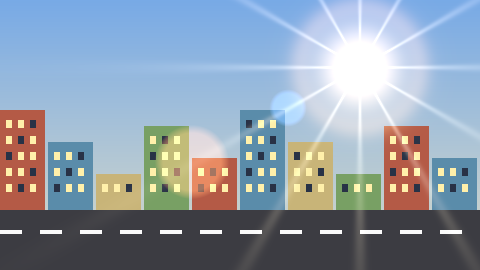
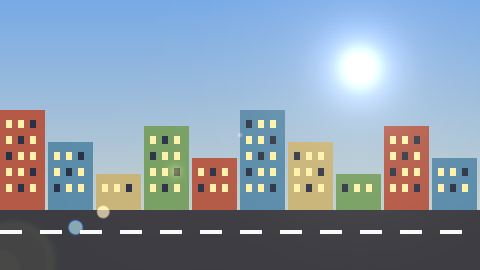
B-865: Lens Flare's lenses as After Effects draws them (D-985)
The three lenses' parts now follow tools/lens_flare_reference.py as D-985
re-measured them from After Effects' own output in three tutorial stills:
soft blooms, faint ghosts and rings, no rays. The D-426 and D-545 tables
re-ran on the new fixtures (146 of 146, 463 of 463). Before/after/tutorial
sheet in verification/B-865 pictures/, playtest in verification/B-865_playtest.md.

Claude-Session: https://claude.ai/code/session_017v6siGuTE9FEsaYfu4Tihy

diff --git a/src/layer_fx.rs b/src/layer_fx.rs
@@ -3183,43 +3183,64 @@ fn thread(e: f64, half: f64, texture: f64) -> (f64, f64, f64, f64) {
 /// disc (a ghost), 3 a star of n rays; t its place on the line from the flare (0) through the
 /// layer's middle (1); r its size and w its edge (a star's: its rays' sharpness), as shares of the
 /// drawing's diagonal; its colour in linear light. The same numbers are in
-/// tools/lens_flare_reference.py.
+/// tools/lens_flare_reference.py; D-985 measured them again from After Effects' own output.
 pub(crate) const FLARE_LENSES: [(&str, &[[f64; 8]]); 3] = [
     (
         "zoom",
         &[
-            [0.0, 0.0, 0.012, 0.0, 0.0, 2.0, 2.0, 2.0],
-            [0.0, 0.0, 0.06, 0.0, 0.0, 1.0, 0.75, 0.45],
-            [1.0, 0.0, 0.2, 0.012, 0.0, 0.12, 0.18, 0.3],
-            [3.0, 0.0, 0.1, 40.0, 6.0, 0.5, 0.45, 0.4],
-            [2.0, 0.45, 0.02, 0.006, 0.0, 0.1, 0.18, 0.35],
-            [2.0, 0.7, 0.045, 0.01, 0.0, 0.12, 0.3, 0.12],
-            [2.0, 1.2, 0.03, 0.008, 0.0, 0.35, 0.2, 0.08],
-            [2.0, 1.5, 0.08, 0.02, 0.0, 0.08, 0.08, 0.25],
-            [2.0, 1.8, 0.015, 0.005, 0.0, 0.4, 0.1, 0.1],
-            [1.0, 2.0, 0.1, 0.008, 0.0, 0.1, 0.25, 0.15],
+            [0.0, 0.0, 0.006, 0.0, 0.0, 0.6, 0.6, 0.6],
+            [0.0, 0.0, 0.0266, 0.0, 0.0, 0.6, 0.75, 0.75],
+            [0.0, 0.0, 0.069, 0.0, 0.0, 0.48, 0.12, 0.1],
+            [0.0, 0.0, 0.22, 0.0, 0.0, 0.035, 0.02, 0.016],
+            [1.0, 0.0, 0.078, 0.0058, 0.0, 0.13, 0.012, 0.004],
+            [2.0, -0.3, 0.035, 0.006, 0.0, 0.06, 0.04, 0.03],
+            [2.0, 0.62, 0.03, 0.006, 0.0, 0.01, 0.015, 0.035],
+            [2.0, 0.81, 0.018, 0.004, 0.0, 0.06, 0.023, 0.01],
+            [2.0, 1.0, 0.004, 0.003, 0.0, 0.38, 0.27, 0.26],
+            [2.0, 1.28, 0.0036, 0.003, 0.0, 0.1, 0.25, 0.18],
+            [2.0, 1.39, 0.032, 0.004, 0.0, 0.07, 0.025, 0.0],
+            [2.0, 1.47, 0.063, 0.004, 0.0, 0.042, 0.027, 0.0],
+            [2.0, 1.66, 0.027, 0.004, 0.0, 0.005, 0.035, 0.15],
+            [2.0, 2.02, 0.09, 0.03, 0.0, 0.004, 0.005, 0.001],
+            [1.0, 2.02, 0.088, 0.006, 0.0, 0.006, 0.007, 0.001],
+            [1.0, 2.38, 0.169, 0.003, 0.0, 0.006, 0.004, 0.0],
+            [1.0, 2.38, 0.175, 0.003, 0.0, 0.002, 0.0, 0.006],
         ],
     ),
     (
         "35mm",
         &[
-            [0.0, 0.0, 0.01, 0.0, 0.0, 2.0, 2.0, 2.0],
-            [0.0, 0.0, 0.04, 0.0, 0.0, 1.0, 0.85, 0.65],
-            [3.0, 0.0, 0.06, 60.0, 8.0, 0.4, 0.4, 0.4],
-            [2.0, 0.5, 0.025, 0.006, 0.0, 0.1, 0.22, 0.4],
-            [2.0, 1.3, 0.05, 0.012, 0.0, 0.2, 0.12, 0.35],
-            [2.0, 1.7, 0.02, 0.005, 0.0, 0.4, 0.25, 0.1],
+            [0.0, 0.0, 0.006, 0.0, 0.0, 0.4, 0.4, 0.4],
+            [0.0, 0.0, 0.028, 0.0, 0.0, 0.7, 0.73, 0.7],
+            [0.0, 0.0, 0.075, 0.0, 0.0, 0.34, 0.058, 0.079],
+            [0.0, 0.0, 0.3, 0.0, 0.0, 0.016, 0.008, 0.007],
+            [1.0, 0.0, 0.073, 0.0055, 0.0, 0.045, 0.005, 0.012],
+            [2.0, -0.45, 0.035, 0.008, 0.0, 0.08, 0.04, 0.05],
+            [2.0, 1.0, 0.004, 0.003, 0.0, 0.1, 0.1, 0.085],
+            [2.0, 1.25, 0.004, 0.003, 0.0, 0.15, 0.19, 0.1],
+            [2.0, 1.48, 0.057, 0.004, 0.0, 0.04, 0.033, 0.0],
+            [2.0, 1.69, 0.022, 0.004, 0.0, 0.017, 0.012, 0.07],
+            [2.0, 2.0, 0.088, 0.01, 0.0, 0.01, 0.015, 0.003],
+            [1.0, 2.29, 0.17, 0.003, 0.0, 0.008, 0.008, 0.008],
         ],
     ),
     (
         "105mm",
         &[
-            [0.0, 0.0, 0.015, 0.0, 0.0, 2.5, 2.5, 2.5],
-            [0.0, 0.0, 0.07, 0.0, 0.0, 1.2, 0.85, 0.5],
-            [1.0, 0.0, 0.11, 0.02, 0.0, 0.18, 0.1, 0.04],
-            [3.0, 0.0, 0.14, 30.0, 12.0, 0.6, 0.55, 0.45],
-            [2.0, 0.6, 0.03, 0.008, 0.0, 0.08, 0.18, 0.4],
-            [2.0, 1.4, 0.06, 0.015, 0.0, 0.35, 0.15, 0.06],
+            [0.0, 0.0, 0.006, 0.0, 0.0, 0.5, 0.5, 0.5],
+            [0.0, 0.0, 0.0328, 0.0, 0.0, 0.66, 0.68, 0.66],
+            [0.0, 0.0, 0.07, 0.0, 0.0, 0.33, 0.36, 0.5],
+            [0.0, 0.0, 0.2, 0.0, 0.0, 0.07, 0.065, 0.058],
+            [2.0, -1.48, 0.0073, 0.003, 0.0, 0.08, 0.21, 0.13],
+            [2.0, 1.0, 0.004, 0.003, 0.0, 0.22, 0.13, 0.16],
+            [0.0, 1.54, 0.012, 0.0, 0.0, 0.17, 0.18, 0.06],
+            [2.0, 2.14, 0.011, 0.003, 0.0, 0.52, 0.45, 0.29],
+            [2.0, 2.37, 0.012, 0.003, 0.0, 0.19, 0.35, 0.37],
+            [1.0, 2.37, 0.012, 0.002, 0.0, 0.0, 0.05, 0.25],
+            [2.0, 2.88, 0.071, 0.02, 0.0, 0.012, 0.012, 0.005],
+            [1.0, 2.88, 0.068, 0.008, 0.0, 0.008, 0.012, 0.003],
+            [0.0, 1.7, 0.12, 0.0, 0.0, 0.008, 0.004, 0.003],
+            [2.0, 3.0, 0.036, 0.008, 0.0, 0.008, 0.008, 0.004],
         ],
     ),
 ];

diff --git a/verification/D-426_lens_flare_table.md b/verification/D-426_lens_flare_table.md
@@ -6,37 +6,37 @@ B-305, after After Effects' Lens Flare: the flare a bright light makes shining i
 
 | Check | The build's answer | Matches |
 | --- | --- | --- |
-| FX-FLARE-001 frame 0: As added: the 50-300mm zoom flare at 30, 30 per cent, brightness 100: a white-hot core and a warm glow round (4.8, 3), six faint rays, a blue halo, and coloured ghosts along the line through the middle. | largest difference 1.9e-7 | yes |
+| FX-FLARE-001 frame 0: As added: the 50-300mm zoom flare at 30, 30 per cent, brightness 100: a white-hot core in a soft red bloom round (4.8, 3), a thin red ring, and faint coloured ghosts along the line through the middle. | largest difference 1.9e-7 | yes |
 | FX-FLARE-001: what opening it warns of, and what frame 4 warns of | [] and [] | yes |
-| FX-FLARE-002 frame 0: The flare at the middle, 50, 50: every ghost sits on the flare itself, so the picture is round about the middle. | largest difference 2.0e-7 | yes |
+| FX-FLARE-002 frame 0: The flare at the middle, 50, 50: every ghost sits on the flare itself, so the picture is round about the middle. | largest difference 1.8e-7 | yes |
 | FX-FLARE-002: what opening it warns of, and what frame 4 warns of | [] and [] | yes |
 | FX-FLARE-003 frame 0: Brightness 0: no light; the photo untouched. | largest difference 1.5e-7 | yes |
 | FX-FLARE-003: what opening it warns of, and what frame 4 warns of | [] and [] | yes |
-| FX-FLARE-004 frame 0: Brightness 300: three times FX-FLARE-001's light. | largest difference 2.9e-7 | yes |
+| FX-FLARE-004 frame 0: Brightness 300: three times FX-FLARE-001's light. | largest difference 1.8e-7 | yes |
 | FX-FLARE-004: what opening it warns of, and what frame 4 warns of | [] and [] | yes |
-| FX-FLARE-005 frame 0: The 35mm prime: a smaller glow, eight rays, three ghosts. | largest difference 1.8e-7 | yes |
+| FX-FLARE-005 frame 0: The 35mm prime: a pink-red bloom, a faint red ring, a grey ring and ghosts. | largest difference 2.1e-7 | yes |
 | FX-FLARE-005: what opening it warns of, and what frame 4 warns of | [] and [] | yes |
-| FX-FLARE-006 frame 0: The 105mm prime: a bigger, warmer glow, twelve long rays, an orange halo, two ghosts. | largest difference 2.4e-7 | yes |
+| FX-FLARE-006 frame 0: The 105mm prime: a wide soft white-blue bloom, no rays, small bright ghosts and a faint large one. | largest difference 1.8e-7 | yes |
 | FX-FLARE-006: what opening it warns of, and what frame 4 warns of | [] and [] | yes |
 | FX-FLARE-007 frame 0: Blend With Original 100: the photo untouched. | largest difference 1.5e-7 | yes |
 | FX-FLARE-007: what opening it warns of, and what frame 4 warns of | [] and [] | yes |
-| FX-FLARE-008 frame 0: Blend With Original 50: halfway between FX-FLARE-001 and the photo. | largest difference 1.8e-7 | yes |
+| FX-FLARE-008 frame 0: Blend With Original 50: halfway between FX-FLARE-001 and the photo. | largest difference 2.0e-7 | yes |
 | FX-FLARE-008: what opening it warns of, and what frame 4 warns of | [] and [] | yes |
 | FX-FLARE-009 frame 0: On the shapes drawing, clear between its blocks: the light shows in the clear parts too, as covering as it is bright. | largest difference 1.9e-7 | yes |
 | FX-FLARE-009: what opening it warns of, and what frame 4 warns of | [] and [] | yes |
 | FX-FLARE-010 frame 0: FX-FLARE-001 on the holder moved 2 right and 1 down: the same, moved; the flare is drawn on the drawing before it moves. | largest difference 1.9e-7 | yes |
 | FX-FLARE-010: what opening it warns of, and what frame 4 warns of | [] and [] | yes |
-| FX-FLARE-011 frame 0: The centre keyed from 0, 0 at frame 0 to 100, 100 at frame 4, linear: frame 2 is FX-FLARE-002. | largest difference 1.9e-7 | yes |
-| FX-FLARE-011 frame 2: The centre keyed from 0, 0 at frame 0 to 100, 100 at frame 4, linear: frame 2 is FX-FLARE-002. | largest difference 2.0e-7 | yes |
+| FX-FLARE-011 frame 0: The centre keyed from 0, 0 at frame 0 to 100, 100 at frame 4, linear: frame 2 is FX-FLARE-002. | largest difference 1.8e-7 | yes |
+| FX-FLARE-011 frame 2: The centre keyed from 0, 0 at frame 0 to 100, 100 at frame 4, linear: frame 2 is FX-FLARE-002. | largest difference 1.8e-7 | yes |
 | FX-FLARE-011 frame 4: The centre keyed from 0, 0 at frame 0 to 100, 100 at frame 4, linear: frame 2 is FX-FLARE-002. | largest difference 1.8e-7 | yes |
 | FX-FLARE-011: what opening it warns of, and what frame 4 warns of | [] and [] | yes |
 | FX-FLARE-012 frame 0: Brightness eased from 0 at frame 0 to 300 at frame 4 on a curve that overshoots: at frame 2 it would pass 300, is held at 300, as frame 4 is. | largest difference 1.5e-7 | yes |
-| FX-FLARE-012 frame 2: Brightness eased from 0 at frame 0 to 300 at frame 4 on a curve that overshoots: at frame 2 it would pass 300, is held at 300, as frame 4 is. | largest difference 2.9e-7 | yes |
-| FX-FLARE-012 frame 4: Brightness eased from 0 at frame 0 to 300 at frame 4 on a curve that overshoots: at frame 2 it would pass 300, is held at 300, as frame 4 is. | largest difference 2.9e-7 | yes |
+| FX-FLARE-012 frame 2: Brightness eased from 0 at frame 0 to 300 at frame 4 on a curve that overshoots: at frame 2 it would pass 300, is held at 300, as frame 4 is. | largest difference 1.8e-7 | yes |
+| FX-FLARE-012 frame 4: Brightness eased from 0 at frame 0 to 300 at frame 4 on a curve that overshoots: at frame 2 it would pass 300, is held at 300, as frame 4 is. | largest difference 1.8e-7 | yes |
 | FX-FLARE-012: what opening it warns of, and what frame 4 warns of | [] and [] | yes |
 | FX-FLARE-013 frame 0: The flare off the layer, at -50, 150: only its ghosts and the tail of its glow and rays reach the drawing. | largest difference 1.8e-7 | yes |
 | FX-FLARE-013: what opening it warns of, and what frame 4 warns of | [] and [] | yes |
-| FX-FLARE-014 frame 0: The 105mm prime at 70, 20, brightness 150, blend 25, on the ramp: the controls together. | largest difference 1.3e-7 | yes |
+| FX-FLARE-014 frame 0: The 105mm prime at 70, 20, brightness 150, blend 25, on the ramp: the controls together. | largest difference 1.4e-7 | yes |
 | FX-FLARE-014: what opening it warns of, and what frame 4 warns of | [] and [] | yes |
 | FX-FLARE-015 frame 0: Brightness 301, above 300. The file is read, the effect is kept as written and left out of every frame, with a warning. | largest difference 1.5e-7 | yes |
 | FX-FLARE-015 frame 4: Brightness 301, above 300. The file is read, the effect is kept as written and left out of every frame, with a warning. | largest difference 1.5e-7 | yes |
@@ -150,38 +150,38 @@ B-305, after After Effects' Lens Flare: the flare a bright light makes shining i
 | fx_flare_017.json, frames 0 to 4 at Full and Draft | largest difference 0 of 255; on the card in 0 of 10 frames; the same warnings: true | yes |
 | fx_flare_018.json, frames 0 to 4 at Full and Draft | largest difference 0 of 255; on the card in 0 of 10 frames; the same warnings: true | yes |
 | fx_flare_019.json, frames 0 to 4 at Full and Draft | largest difference 0 of 255; on the card in 0 of 10 frames; the same warnings: true | yes |
-| the reference shot, Lens Flare as it starts (the 50-300mm zoom at 30, 30, brightness 100): the processor's frame 100 differs from the shot without it, so the comparisons below test the effect | 1108876 pixels changed | yes |
-| the reference shot, Lens Flare as it starts (the 50-300mm zoom at 30, 30, brightness 100) on three layers, frame 0, Full | largest difference 1 of 255, 1000 pixels differ; 3 of 3 on the card; warnings CPU [] GPU [] | yes |
-| the reference shot, Lens Flare as it starts (the 50-300mm zoom at 30, 30, brightness 100) on three layers, frame 100, Full | largest difference 1 of 255, 936 pixels differ; 3 of 3 on the card; warnings CPU [] GPU [] | yes |
-| the reference shot, Lens Flare as it starts (the 50-300mm zoom at 30, 30, brightness 100) on three layers, frame 239, Full | largest difference 1 of 255, 942 pixels differ; 3 of 3 on the card; warnings CPU [] GPU [] | yes |
-| the reference shot, Lens Flare as it starts (the 50-300mm zoom at 30, 30, brightness 100) on three layers, frame 0, Draft | largest difference 1 of 255, 50 pixels differ; 3 of 3 on the card; warnings CPU [] GPU [] | yes |
-| the reference shot, Lens Flare as it starts (the 50-300mm zoom at 30, 30, brightness 100) on three layers, frame 100, Draft | largest difference 1 of 255, 68 pixels differ; 3 of 3 on the card; warnings CPU [] GPU [] | yes |
-| the reference shot, Lens Flare as it starts (the 50-300mm zoom at 30, 30, brightness 100) on three layers, frame 239, Draft | largest difference 1 of 255, 46 pixels differ; 3 of 3 on the card; warnings CPU [] GPU [] | yes |
-| the reference shot, Lens Flare the 35mm prime at 80, 60, brightness 200, blend 30: the processor's frame 100 differs from the shot without it, so the comparisons below test the effect | 429136 pixels changed | yes |
-| the reference shot, Lens Flare the 35mm prime at 80, 60, brightness 200, blend 30 on three layers, frame 0, Full | largest difference 1 of 255, 3367 pixels differ; 3 of 3 on the card; warnings CPU [] GPU [] | yes |
-| the reference shot, Lens Flare the 35mm prime at 80, 60, brightness 200, blend 30 on three layers, frame 100, Full | largest difference 1 of 255, 871 pixels differ; 3 of 3 on the card; warnings CPU [] GPU [] | yes |
-| the reference shot, Lens Flare the 35mm prime at 80, 60, brightness 200, blend 30 on three layers, frame 239, Full | largest difference 1 of 255, 1285 pixels differ; 3 of 3 on the card; warnings CPU [] GPU [] | yes |
-| the reference shot, Lens Flare the 35mm prime at 80, 60, brightness 200, blend 30 on three layers, frame 0, Draft | largest difference 1 of 255, 118 pixels differ; 3 of 3 on the card; warnings CPU [] GPU [] | yes |
-| the reference shot, Lens Flare the 35mm prime at 80, 60, brightness 200, blend 30 on three layers, frame 100, Draft | largest difference 1 of 255, 46 pixels differ; 3 of 3 on the card; warnings CPU [] GPU [] | yes |
-| the reference shot, Lens Flare the 35mm prime at 80, 60, brightness 200, blend 30 on three layers, frame 239, Draft | largest difference 1 of 255, 47 pixels differ; 3 of 3 on the card; warnings CPU [] GPU [] | yes |
-| the reference shot, Lens Flare the 105mm prime, its centre keyed from 10, 20 to 90, 80: the processor's frame 100 differs from the shot without it, so the comparisons below test the effect | 1008690 pixels changed | yes |
-| the reference shot, Lens Flare the 105mm prime, its centre keyed from 10, 20 to 90, 80 on three layers, frame 0, Full | largest difference 1 of 255, 3816 pixels differ; 3 of 3 on the card; warnings CPU [] GPU [] | yes |
-| the reference shot, Lens Flare the 105mm prime, its centre keyed from 10, 20 to 90, 80 on three layers, frame 100, Full | largest difference 1 of 255, 1016 pixels differ; 3 of 3 on the card; warnings CPU [] GPU [] | yes |
-| the reference shot, Lens Flare the 105mm prime, its centre keyed from 10, 20 to 90, 80 on three layers, frame 239, Full | largest difference 1 of 255, 1691 pixels differ; 3 of 3 on the card; warnings CPU [] GPU [] | yes |
-| the reference shot, Lens Flare the 105mm prime, its centre keyed from 10, 20 to 90, 80 on three layers, frame 0, Draft | largest difference 1 of 255, 155 pixels differ; 3 of 3 on the card; warnings CPU [] GPU [] | yes |
-| the reference shot, Lens Flare the 105mm prime, its centre keyed from 10, 20 to 90, 80 on three layers, frame 100, Draft | largest difference 1 of 255, 71 pixels differ; 3 of 3 on the card; warnings CPU [] GPU [] | yes |
-| the reference shot, Lens Flare the 105mm prime, its centre keyed from 10, 20 to 90, 80 on three layers, frame 239, Draft | largest difference 1 of 255, 67 pixels differ; 3 of 3 on the card; warnings CPU [] GPU [] | yes |
+| the reference shot, Lens Flare as it starts (the 50-300mm zoom at 30, 30, brightness 100): the processor's frame 100 differs from the shot without it, so the comparisons below test the effect | 1669900 pixels changed | yes |
+| the reference shot, Lens Flare as it starts (the 50-300mm zoom at 30, 30, brightness 100) on three layers, frame 0, Full | largest difference 1 of 255, 1214 pixels differ; 3 of 3 on the card; warnings CPU [] GPU [] | yes |
+| the reference shot, Lens Flare as it starts (the 50-300mm zoom at 30, 30, brightness 100) on three layers, frame 100, Full | largest difference 1 of 255, 1024 pixels differ; 3 of 3 on the card; warnings CPU [] GPU [] | yes |
+| the reference shot, Lens Flare as it starts (the 50-300mm zoom at 30, 30, brightness 100) on three layers, frame 239, Full | largest difference 1 of 255, 1025 pixels differ; 3 of 3 on the card; warnings CPU [] GPU [] | yes |
+| the reference shot, Lens Flare as it starts (the 50-300mm zoom at 30, 30, brightness 100) on three layers, frame 0, Draft | largest difference 1 of 255, 74 pixels differ; 3 of 3 on the card; warnings CPU [] GPU [] | yes |
+| the reference shot, Lens Flare as it starts (the 50-300mm zoom at 30, 30, brightness 100) on three layers, frame 100, Draft | largest difference 1 of 255, 62 pixels differ; 3 of 3 on the card; warnings CPU [] GPU [] | yes |
+| the reference shot, Lens Flare as it starts (the 50-300mm zoom at 30, 30, brightness 100) on three layers, frame 239, Draft | largest difference 1 of 255, 59 pixels differ; 3 of 3 on the card; warnings CPU [] GPU [] | yes |
+| the reference shot, Lens Flare the 35mm prime at 80, 60, brightness 200, blend 30: the processor's frame 100 differs from the shot without it, so the comparisons below test the effect | 1819350 pixels changed | yes |
+| the reference shot, Lens Flare the 35mm prime at 80, 60, brightness 200, blend 30 on three layers, frame 0, Full | largest difference 1 of 255, 716 pixels differ; 3 of 3 on the card; warnings CPU [] GPU [] | yes |
+| the reference shot, Lens Flare the 35mm prime at 80, 60, brightness 200, blend 30 on three layers, frame 100, Full | largest difference 1 of 255, 870 pixels differ; 3 of 3 on the card; warnings CPU [] GPU [] | yes |
+| the reference shot, Lens Flare the 35mm prime at 80, 60, brightness 200, blend 30 on three layers, frame 239, Full | largest difference 1 of 255, 875 pixels differ; 3 of 3 on the card; warnings CPU [] GPU [] | yes |
+| the reference shot, Lens Flare the 35mm prime at 80, 60, brightness 200, blend 30 on three layers, frame 0, Draft | largest difference 1 of 255, 53 pixels differ; 3 of 3 on the card; warnings CPU [] GPU [] | yes |
+| the reference shot, Lens Flare the 35mm prime at 80, 60, brightness 200, blend 30 on three layers, frame 100, Draft | largest difference 1 of 255, 50 pixels differ; 3 of 3 on the card; warnings CPU [] GPU [] | yes |
+| the reference shot, Lens Flare the 35mm prime at 80, 60, brightness 200, blend 30 on three layers, frame 239, Draft | largest difference 1 of 255, 48 pixels differ; 3 of 3 on the card; warnings CPU [] GPU [] | yes |
+| the reference shot, Lens Flare the 105mm prime, its centre keyed from 10, 20 to 90, 80: the processor's frame 100 differs from the shot without it, so the comparisons below test the effect | 1932650 pixels changed | yes |
+| the reference shot, Lens Flare the 105mm prime, its centre keyed from 10, 20 to 90, 80 on three layers, frame 0, Full | largest difference 1 of 255, 994 pixels differ; 3 of 3 on the card; warnings CPU [] GPU [] | yes |
+| the reference shot, Lens Flare the 105mm prime, its centre keyed from 10, 20 to 90, 80 on three layers, frame 100, Full | largest difference 1 of 255, 1033 pixels differ; 3 of 3 on the card; warnings CPU [] GPU [] | yes |
+| the reference shot, Lens Flare the 105mm prime, its centre keyed from 10, 20 to 90, 80 on three layers, frame 239, Full | largest difference 1 of 255, 904 pixels differ; 3 of 3 on the card; warnings CPU [] GPU [] | yes |
+| the reference shot, Lens Flare the 105mm prime, its centre keyed from 10, 20 to 90, 80 on three layers, frame 0, Draft | largest difference 1 of 255, 70 pixels differ; 3 of 3 on the card; warnings CPU [] GPU [] | yes |
+| the reference shot, Lens Flare the 105mm prime, its centre keyed from 10, 20 to 90, 80 on three layers, frame 100, Draft | largest difference 1 of 255, 72 pixels differ; 3 of 3 on the card; warnings CPU [] GPU [] | yes |
+| the reference shot, Lens Flare the 105mm prime, its centre keyed from 10, 20 to 90, 80 on three layers, frame 239, Draft | largest difference 1 of 255, 50 pixels differ; 3 of 3 on the card; warnings CPU [] GPU [] | yes |
 
 ## Pictures: the street at frame 0, in `verification/D-426 pictures/`
 
 | Check | The build's answer | Matches |
 | --- | --- | --- |
 | 1_before.png, the street with no effect; draws cleanly | [] | yes |
-| 2_as_added.png, as it starts: the 50-300mm zoom at 30, 30, a hot glow and rays up and left, a blue halo, ghosts down to the right; draws cleanly | [], 61572 pixels changed | yes |
-| 3_prime_35mm.png, the 35mm prime: a smaller, whiter glow with eight rays and three ghosts; draws cleanly | [], 20574 pixels changed | yes |
-| 4_prime_105mm.png, the 105mm prime at 75, 25: a large white glow, twelve long rays, a faint warm halo; draws cleanly | [], 51639 pixels changed | yes |
-| 5_bright.png, brightness 250 at 50, 20: the glow washes the sky white; draws cleanly | [], 61375 pixels changed | yes |
-| 6_blended.png, blend 60: the zoom flare at 40% strength; draws cleanly | [], 54547 pixels changed | yes |
+| 2_as_added.png, as it starts: the 50-300mm zoom at 30, 30, a hot glow and rays up and left, a blue halo, ghosts down to the right; draws cleanly | [], 97183 pixels changed | yes |
+| 3_prime_35mm.png, the 35mm prime: a smaller, whiter glow with eight rays and three ghosts; draws cleanly | [], 103089 pixels changed | yes |
+| 4_prime_105mm.png, the 105mm prime at 75, 25: a large white glow, twelve long rays, a faint warm halo; draws cleanly | [], 102945 pixels changed | yes |
+| 5_bright.png, brightness 250 at 50, 20: the glow washes the sky white; draws cleanly | [], 114848 pixels changed | yes |
+| 6_blended.png, blend 60: the zoom flare at 40% strength; draws cleanly | [], 83514 pixels changed | yes |
 
 ## Result
 

diff --git a/verification/D-545_lens_dirt_table.md b/verification/D-545_lens_dirt_table.md
@@ -275,37 +275,37 @@ D-545 (EFFECTS.md row 261): Soft Physical Glow and Lens Flare each gain a Dirt L
 
 | Check | The build's answer | Matches |
 | --- | --- | --- |
-| FX-FLARE-001 frame 0: As added: the 50-300mm zoom flare at 30, 30 per cent, brightness 100: a white-hot core and a warm glow round (4.8, 3), six faint rays, a blue halo, and coloured ghosts along the line through the middle. | largest difference 1.9e-7 | yes |
+| FX-FLARE-001 frame 0: As added: the 50-300mm zoom flare at 30, 30 per cent, brightness 100: a white-hot core in a soft red bloom round (4.8, 3), a thin red ring, and faint coloured ghosts along the line through the middle. | largest difference 1.9e-7 | yes |
 | FX-FLARE-001: what opening it warns of, and what frame 4 warns of | [] and [] | yes |
-| FX-FLARE-002 frame 0: The flare at the middle, 50, 50: every ghost sits on the flare itself, so the picture is round about the middle. | largest difference 2.0e-7 | yes |
+| FX-FLARE-002 frame 0: The flare at the middle, 50, 50: every ghost sits on the flare itself, so the picture is round about the middle. | largest difference 1.8e-7 | yes |
 | FX-FLARE-002: what opening it warns of, and what frame 4 warns of | [] and [] | yes |
 | FX-FLARE-003 frame 0: Brightness 0: no light; the photo untouched. | largest difference 1.5e-7 | yes |
 | FX-FLARE-003: what opening it warns of, and what frame 4 warns of | [] and [] | yes |
-| FX-FLARE-004 frame 0: Brightness 300: three times FX-FLARE-001's light. | largest difference 2.9e-7 | yes |
+| FX-FLARE-004 frame 0: Brightness 300: three times FX-FLARE-001's light. | largest difference 1.8e-7 | yes |
 | FX-FLARE-004: what opening it warns of, and what frame 4 warns of | [] and [] | yes |
-| FX-FLARE-005 frame 0: The 35mm prime: a smaller glow, eight rays, three ghosts. | largest difference 1.8e-7 | yes |
+| FX-FLARE-005 frame 0: The 35mm prime: a pink-red bloom, a faint red ring, a grey ring and ghosts. | largest difference 2.1e-7 | yes |
 | FX-FLARE-005: what opening it warns of, and what frame 4 warns of | [] and [] | yes |
-| FX-FLARE-006 frame 0: The 105mm prime: a bigger, warmer glow, twelve long rays, an orange halo, two ghosts. | largest difference 2.4e-7 | yes |
+| FX-FLARE-006 frame 0: The 105mm prime: a wide soft white-blue bloom, no rays, small bright ghosts and a faint large one. | largest difference 1.8e-7 | yes |
 | FX-FLARE-006: what opening it warns of, and what frame 4 warns of | [] and [] | yes |
 | FX-FLARE-007 frame 0: Blend With Original 100: the photo untouched. | largest difference 1.5e-7 | yes |
 | FX-FLARE-007: what opening it warns of, and what frame 4 warns of | [] and [] | yes |
-| FX-FLARE-008 frame 0: Blend With Original 50: halfway between FX-FLARE-001 and the photo. | largest difference 1.8e-7 | yes |
+| FX-FLARE-008 frame 0: Blend With Original 50: halfway between FX-FLARE-001 and the photo. | largest difference 2.0e-7 | yes |
 | FX-FLARE-008: what opening it warns of, and what frame 4 warns of | [] and [] | yes |
 | FX-FLARE-009 frame 0: On the shapes drawing, clear between its blocks: the light shows in the clear parts too, as covering as it is bright. | largest difference 1.9e-7 | yes |
 | FX-FLARE-009: what opening it warns of, and what frame 4 warns of | [] and [] | yes |
 | FX-FLARE-010 frame 0: FX-FLARE-001 on the holder moved 2 right and 1 down: the same, moved; the flare is drawn on the drawing before it moves. | largest difference 1.9e-7 | yes |
 | FX-FLARE-010: what opening it warns of, and what frame 4 warns of | [] and [] | yes |
-| FX-FLARE-011 frame 0: The centre keyed from 0, 0 at frame 0 to 100, 100 at frame 4, linear: frame 2 is FX-FLARE-002. | largest difference 1.9e-7 | yes |
-| FX-FLARE-011 frame 2: The centre keyed from 0, 0 at frame 0 to 100, 100 at frame 4, linear: frame 2 is FX-FLARE-002. | largest difference 2.0e-7 | yes |
+| FX-FLARE-011 frame 0: The centre keyed from 0, 0 at frame 0 to 100, 100 at frame 4, linear: frame 2 is FX-FLARE-002. | largest difference 1.8e-7 | yes |
+| FX-FLARE-011 frame 2: The centre keyed from 0, 0 at frame 0 to 100, 100 at frame 4, linear: frame 2 is FX-FLARE-002. | largest difference 1.8e-7 | yes |
 | FX-FLARE-011 frame 4: The centre keyed from 0, 0 at frame 0 to 100, 100 at frame 4, linear: frame 2 is FX-FLARE-002. | largest difference 1.8e-7 | yes |
 | FX-FLARE-011: what opening it warns of, and what frame 4 warns of | [] and [] | yes |
 | FX-FLARE-012 frame 0: Brightness eased from 0 at frame 0 to 300 at frame 4 on a curve that overshoots: at frame 2 it would pass 300, is held at 300, as frame 4 is. | largest difference 1.5e-7 | yes |
-| FX-FLARE-012 frame 2: Brightness eased from 0 at frame 0 to 300 at frame 4 on a curve that overshoots: at frame 2 it would pass 300, is held at 300, as frame 4 is. | largest difference 2.9e-7 | yes |
-| FX-FLARE-012 frame 4: Brightness eased from 0 at frame 0 to 300 at frame 4 on a curve that overshoots: at frame 2 it would pass 300, is held at 300, as frame 4 is. | largest difference 2.9e-7 | yes |
+| FX-FLARE-012 frame 2: Brightness eased from 0 at frame 0 to 300 at frame 4 on a curve that overshoots: at frame 2 it would pass 300, is held at 300, as frame 4 is. | largest difference 1.8e-7 | yes |
+| FX-FLARE-012 frame 4: Brightness eased from 0 at frame 0 to 300 at frame 4 on a curve that overshoots: at frame 2 it would pass 300, is held at 300, as frame 4 is. | largest difference 1.8e-7 | yes |
 | FX-FLARE-012: what opening it warns of, and what frame 4 warns of | [] and [] | yes |
 | FX-FLARE-013 frame 0: The flare off the layer, at -50, 150: only its ghosts and the tail of its glow and rays reach the drawing. | largest difference 1.8e-7 | yes |
 | FX-FLARE-013: what opening it warns of, and what frame 4 warns of | [] and [] | yes |
-| FX-FLARE-014 frame 0: The 105mm prime at 70, 20, brightness 150, blend 25, on the ramp: the controls together. | largest difference 1.3e-7 | yes |
+| FX-FLARE-014 frame 0: The 105mm prime at 70, 20, brightness 150, blend 25, on the ramp: the controls together. | largest difference 1.4e-7 | yes |
 | FX-FLARE-014: what opening it warns of, and what frame 4 warns of | [] and [] | yes |
 | FX-FLARE-015 frame 0: Brightness 301, above 300. The file is read, the effect is kept as written and left out of every frame, with a warning. | largest difference 1.5e-7 | yes |
 | FX-FLARE-015 frame 4: Brightness 301, above 300. The file is read, the effect is kept as written and left out of every frame, with a warning. | largest difference 1.5e-7 | yes |
@@ -364,15 +364,15 @@ D-545 (EFFECTS.md row 261): Soft Physical Glow and Lens Flare each gain a Dirt L
 | FX-DIRT-016 frame 0: A dirt layer that is not in the composition, `gone`: the layer drawn without the effect, and the warning every frame. | largest difference 1.5e-7 | yes |
 | FX-DIRT-016 frame 4: A dirt layer that is not in the composition, `gone`: the layer drawn without the effect, and the warning every frame. | largest difference 1.5e-7 | yes |
 | FX-DIRT-016: what opening it warns of, and what frame 4 warns of | ["EFFECT_LAYER_MISSING"] and ["EFFECT_LAYER_MISSING"] | yes |
-| FX-DIRT-017 frame 0: Lens Flare as added on the photo with the smudge as its dirt: the smudge lit where the flare is bright, round its core at (4.8, 3) and on its ghosts. | largest difference 2.3e-7 | yes |
+| FX-DIRT-017 frame 0: Lens Flare as added on the photo with the smudge as its dirt: the smudge lit where the flare is bright, round its core at (4.8, 3) and on its ghosts. | largest difference 2.2e-7 | yes |
 | FX-DIRT-017: what opening it warns of, and what frame 4 warns of | [] and [] | yes |
-| FX-DIRT-018 frame 0: Lens Flare, Inherit Glow Color 100: the dirt takes the flare's colours. | largest difference 2.5e-7 | yes |
+| FX-DIRT-018 frame 0: Lens Flare, Inherit Glow Color 100: the dirt takes the flare's colours. | largest difference 1.9e-7 | yes |
 | FX-DIRT-018: what opening it warns of, and what frame 4 warns of | [] and [] | yes |
 | FX-DIRT-019 frame 0: Lens Flare, Blend With Original 50: halfway between FX-DIRT-017 and the photo. | largest difference 2.2e-7 | yes |
 | FX-DIRT-019: what opening it warns of, and what frame 4 warns of | [] and [] | yes |
 | FX-DIRT-020 frame 0: Lens Flare, Brightness 0: no light, so no matte and no dirt: the photo untouched. | largest difference 1.5e-7 | yes |
 | FX-DIRT-020: what opening it warns of, and what frame 4 warns of | [] and [] | yes |
-| FX-DIRT-021 frame 0: Lens Flare, Repeat Edges off, Matte Exposure 3: the dirt only in the middle, strong. | largest difference 3.5e-7 | yes |
+| FX-DIRT-021 frame 0: Lens Flare, Repeat Edges off, Matte Exposure 3: the dirt only in the middle, strong. | largest difference 3.1e-7 | yes |
 | FX-DIRT-021: what opening it warns of, and what frame 4 warns of | [] and [] | yes |
 | FX-DIRT-022 frame 0: Lens Flare, no dirt layer named: FX-FLARE-001 exactly. | largest difference 1.9e-7 | yes |
 | FX-DIRT-022: what opening it warns of, and what frame 4 warns of | [] and [] | yes |
@@ -500,13 +500,13 @@ D-545 (EFFECTS.md row 261): Soft Physical Glow and Lens Flare each gain a Dirt L
 | the reference shot, Soft Physical Glow, the fourth layer as its dirt, inherit 60, exposure 2, gamma 2.2, repeat off, on three layers, frame 0, Draft | largest difference 1 of 255, 34 pixels differ; 3 of 3 on the card; warnings CPU [] GPU [] | yes |
 | the reference shot, Soft Physical Glow, the fourth layer as its dirt, inherit 60, exposure 2, gamma 2.2, repeat off, on three layers, frame 100, Draft | largest difference 1 of 255, 13 pixels differ; 3 of 3 on the card; warnings CPU [] GPU [] | yes |
 | the reference shot, Soft Physical Glow, the fourth layer as its dirt, inherit 60, exposure 2, gamma 2.2, repeat off, on three layers, frame 239, Draft | largest difference 1 of 255, 9 pixels differ; 3 of 3 on the card; warnings CPU [] GPU [] | yes |
-| the reference shot, Lens Flare, the fourth layer as its dirt, exposure 2: the processor's frame 100 differs from the same at dirt opacity 0, so the comparisons below test the dirt | 140283 pixels changed | yes |
-| the reference shot, Lens Flare, the fourth layer as its dirt, exposure 2, on three layers, frame 0, Full | largest difference 1 of 255, 1136 pixels differ; 3 of 3 on the card; warnings CPU [] GPU [] | yes |
-| the reference shot, Lens Flare, the fourth layer as its dirt, exposure 2, on three layers, frame 100, Full | largest difference 1 of 255, 1051 pixels differ; 3 of 3 on the card; warnings CPU [] GPU [] | yes |
-| the reference shot, Lens Flare, the fourth layer as its dirt, exposure 2, on three layers, frame 239, Full | largest difference 1 of 255, 1056 pixels differ; 3 of 3 on the card; warnings CPU [] GPU [] | yes |
-| the reference shot, Lens Flare, the fourth layer as its dirt, exposure 2, on three layers, frame 0, Draft | largest difference 1 of 255, 68 pixels differ; 3 of 3 on the card; warnings CPU [] GPU [] | yes |
-| the reference shot, Lens Flare, the fourth layer as its dirt, exposure 2, on three layers, frame 100, Draft | largest difference 1 of 255, 52 pixels differ; 3 of 3 on the card; warnings CPU [] GPU [] | yes |
-| the reference shot, Lens Flare, the fourth layer as its dirt, exposure 2, on three layers, frame 239, Draft | largest difference 1 of 255, 74 pixels differ; 3 of 3 on the card; warnings CPU [] GPU [] | yes |
+| the reference shot, Lens Flare, the fourth layer as its dirt, exposure 2: the processor's frame 100 differs from the same at dirt opacity 0, so the comparisons below test the dirt | 160801 pixels changed | yes |
+| the reference shot, Lens Flare, the fourth layer as its dirt, exposure 2, on three layers, frame 0, Full | largest difference 1 of 255, 980 pixels differ; 3 of 3 on the card; warnings CPU [] GPU [] | yes |
+| the reference shot, Lens Flare, the fourth layer as its dirt, exposure 2, on three layers, frame 100, Full | largest difference 1 of 255, 1672 pixels differ; 3 of 3 on the card; warnings CPU [] GPU [] | yes |
+| the reference shot, Lens Flare, the fourth layer as its dirt, exposure 2, on three layers, frame 239, Full | largest difference 1 of 255, 1008 pixels differ; 3 of 3 on the card; warnings CPU [] GPU [] | yes |
+| the reference shot, Lens Flare, the fourth layer as its dirt, exposure 2, on three layers, frame 0, Draft | largest difference 1 of 255, 74 pixels differ; 3 of 3 on the card; warnings CPU [] GPU [] | yes |
+| the reference shot, Lens Flare, the fourth layer as its dirt, exposure 2, on three layers, frame 100, Draft | largest difference 1 of 255, 95 pixels differ; 3 of 3 on the card; warnings CPU [] GPU [] | yes |
+| the reference shot, Lens Flare, the fourth layer as its dirt, exposure 2, on three layers, frame 239, Draft | largest difference 1 of 255, 69 pixels differ; 3 of 3 on the card; warnings CPU [] GPU [] | yes |
 
 ## Pictures: the town, set in a larger frame, with smudges of our own as the dirt, in `verification/D-545 pictures/`
 
@@ -518,7 +518,7 @@ D-545 (EFFECTS.md row 261): Soft Physical Glow and Lens Flare each gain a Dirt L
 | glow_dirt_colour.png, Inherit Glow Color 100: the smudges in the glow's own colours | 80825 pixels differ from the same without dirt; warnings [] | yes |
 | glow_dirt_once.png, Repeat Edges off, Matte Exposure 3: the smudge picture once, in the middle | 8235 pixels differ from the same without dirt; warnings [] | yes |
 | flare_plain.png, Lens Flare as added, no dirt: for comparison | 0 pixels differ from the same without dirt; warnings [] | yes |
-| flare_dirt.png, the same with the smudges as its dirt, Matte Exposure 2: smudges lit round the flare | 31720 pixels differ from the same without dirt; warnings [] | yes |
+| flare_dirt.png, the same with the smudges as its dirt, Matte Exposure 2: smudges lit round the flare | 47330 pixels differ from the same without dirt; warnings [] | yes |
 
 ## Result
 

diff --git a/docs/effects/EFFECTS.md b/docs/effects/EFFECTS.md
@@ -197,7 +197,7 @@ Effect descriptions are in our own words; nothing here copies Adobe's text, and 
 | Generate | Fractal — draws Mandelbrot or Julia set images (our Fractal, `core.fractal`) | done | none | On card (done), warp pass mode 30, the processor's rounding; past 1e10 steps of work drawn on the processor (D-416's guard) | Target P2; reference shot, 3 layers after a moving Noise, played again, card / processor, again, PROVISIONAL (other programs were running): Noise alone 28.2 / 59.8 ms a frame, as added 206.3 / 82.1, Julia Hue Wheel 130.3 / 90.9, Brute Force 4 by 4 318.1 / 315.7, seahorse valley at magnification 20 and Escape Limit 1000 1437.3 / 1387.7 (`verification/B-295_fractal_timing_table.md`) | FX-FRACTALSET-001..042 under Fractal (D-416) (`tools/fractal_reference.py`), b295, D-416 table 278 of 278 checks, card within 1 level, D-416, awaiting playtest. Rule ours (Adobe gives the escape rectangle only): 3 / (h 2^m) units a pixel, bands by escape count. Gaps: no viewer handles. Gaps (tutorial): none found. |
 | Generate | Gradient Ramp — linear or radial blend between two colours (`core.gradient`) | done | none | On card (done) | Target P1; measured CPU 38.9 / GPU 26.0 ms (B-65) | FX-GRAD-001..022, b57, B-57 table, D-114 |
 | Generate | Grid — draws a grid of lines (our Grid, `core.grid`) | done | none | On card (done), warp pass mode 31 | Target P1; reference shot, 3 layers after a moving Noise, played again, card / processor, again, PROVISIONAL (other programs were building): Noise alone 12.0 / 44.6 ms a frame, as added 17.2 / 69.2, Width Slider 100 orange Normal 18.2 / 56.7, 120 by 80 feathered Multiply 18.6 / 59.7 (`verification/B-296_grid_timing_table.md`) | FX-GRID-001..038 (`tools/grid_reference.py`), b296, D-417 table 260 of 260 checks, card within 1 level, D-417, awaiting playtest. Rule ours (Adobe gives none): the share of a max(feather, 1) box inside a Border-thick line along each cell edge, the cell and the blends as Checkerboard's. Gaps: no viewer handles. Gaps (tutorial): none found. |
-| Generate | Lens Flare — simulated camera flare from a bright point (`core.lens_flare`) | done | none | On card (done), warp mode 36 | Target P2; reference shot, 3 layers after a moving Noise, played again, card / processor: as added 17.7 / 86.8 ms, 35mm brightness 200 15.9 / 74.2, 105mm at 75, 25 blend 30 15.9 / 75.1, against 13.3 / 41.1 without; the card is quicker than the processor here; quiet (`verification/B-305_lens_flare_timing_table.md`) | Pick #9, Lens Flare (`PLUGINS.md` top 20, #9). FX-FLARE-001..019 (`tools/lens_flare_reference.py`), b305, D-426 table 146 of 146 checks, card within 1 level, D-426, awaiting playtest. After Effects' controls and three lenses, each a set of Optical Flares-style parts (glows, halo, rays, ghosts) on the line through the middle; parts, ranges and defaults ours. Gaps: no flare builder (own parts, several lights, 3D light, iris shapes, flicker, anamorphic stretch); Lens Dirt is pick #14; glows not on the shared soft-glow engine; clipped to the layer. Gaps (tutorial): none; the tutorial's steps work. |
+| Generate | Lens Flare — simulated camera flare from a bright point (`core.lens_flare`) | done | none | On card (done), warp mode 36 | Target P2; reference shot, 3 layers after a moving Noise, played again, card / processor: as added 17.7 / 86.8 ms, 35mm brightness 200 15.9 / 74.2, 105mm at 75, 25 blend 30 15.9 / 75.1, against 13.3 / 41.1 without; the card is quicker than the processor here; quiet (`verification/B-305_lens_flare_timing_table.md`) | Pick #9, Lens Flare (`PLUGINS.md` top 20, #9). FX-FLARE-001..019 (`tools/lens_flare_reference.py`), b305, D-426 table 146 of 146 checks, card within 1 level, D-426, awaiting playtest. After Effects' controls and three lenses, each a set of Optical Flares-style parts (glows, rings, ghosts) on the line through the middle; D-985 / B-865 measured each lens's parts again from After Effects' own output in three tutorial stills (soft blooms, faint ghosts, no rays; mean difference 15-26 levels down to 3-5; `verification/B-865 pictures/`), awaiting playtest; ranges and defaults ours. Gaps: no flare builder (own parts, several lights, 3D light, iris shapes, flicker, anamorphic stretch); Lens Dirt is pick #14; glows not on the shared soft-glow engine; clipped to the layer. Gaps (tutorial): none; the tutorial's steps work. |
 | Generate | Paint Bucket — flood-fills an area of similar colour (our Paint Bucket, `core.paint_bucket`) | done | none | On card (done) for the blur and laying (held Gaussian, `bucket` pass); the matching, flood fill and distances are made on the processor, so it only begins a card run | Target P4; reference shot, 3 layers after a moving Noise, played again, card / processor, again, PROVISIONAL (other lanes' cargo builds and a b301_light_burst test were running): Noise alone 39.3 / 50.4 ms a frame, as added 96.6 / 175.0, tolerance 30 Feather 20 111.4 / 958.3, Alpha Channel Choke 40 102.5 / 567.8; to be measured again (`verification/B-320_paint_bucket_timing_table.md`) | FX-PAINTBUCKET-001..045 (`tools/paint_bucket_reference.py`), b320, D-440 table 282 of 282 checks, card within 1 level, D-440, awaiting playtest. Rule ours (no formula found): five selectors, 4-connected fill, Invert, Spread/Choke/Stroke by pixel-centre distances, box or Feather blur, six modes and Fill Only. Gaps: After Effects' other blending modes (Darken, Lighten, Difference, Hue ...) are refused with a sentence. Gaps (tutorial): none found. |
 | Generate | Radio Waves — rings that spread outward from a point over time (`core.radio_waves`) | done | none | On card (done), B-234, D-345 accepted (owner, 2026-10-08, option 2); b225, 288 of 288 checks within 1 level, fully clear pixels compared as equal whatever their hidden colour | Target P2; after a moving Noise GPU 80.5 to 20.5 ms a frame played again, 76.2 to 24.0 first sight (Full; `verification/B-234_radio_waves_timing_table.md`) | FX-RWAVE-001..035, b135, B-135 table, D-200; Sides 3 to 128 and Parameters Are Set At (Birth, After Effects' own, on a new one; Each Frame for a file without it), D-777/B-657, b657, `verification/B-657_radio_waves_birth_table.md` 39 of 39, the window B-657 table; Birth reads the settings once per wave alive (up to 1000 / interval reads a frame); D-345, B-225 table; Lifespan 10 s and Fade-out Time 5 s when added, in the composition's frames (240 and 120 at 24 fps, held inside 1 to 1000), as After Effects (D-761/B-640, B-640 table 12 of 12; older projects keep the 96 and 48 frames they saved) |
 | Generate | Scribble — fills a mask with animated scribbled strokes (our Scribble, `core.scribble`) | done | P0-8, P0-22 | On card (done): Path Stroke's `stroke` pass draws the lines; finding the lines stays on the processor | Target P2; reference shot, 3 masked layers after a moving Noise, played again, card / processor, again: Noise alone 12.0 / 41.3 ms a frame, as added 94.9 / 131.0, stroke 12, spacing 30, curviness 60, Jumpy 28.5 / 58.0, Centered Edge 80, spacing 2 80.0 / 59.2 (`verification/B-322_scribble_timing_table.md`); over target: the stroke pass's 16-row band lists, a follow-up | FX-SCRIBBLE-001..071 (`tools/scribble_reference.py`), b322, D-442 table 392 of 392 checks, card within 1 level, D-442, awaiting playtest. Rule ours (no formula found): lines Spacing apart at Angle over the chosen masks' inside or edge band (D-77's modes for Using Modes), overlap past the edge, curved turns, variations hashed from the seed and a wiggle slot (Static, Jumpy, Smooth), trimmed Start to End, Path Stroke's brush, three composites. FX-SCRIBBLE-044/045 expect MASK_INVALID_OUTLINE on a two-point mask (amendment accepted by the owner, 2026-10-10). Gaps: round brush only; a mask's feather, expansion and opacity unused. Gaps (tutorial): none found. |

diff --git a/verification/B-865_playtest.md b/verification/B-865_playtest.md
@@ -1,0 +1,21 @@
+# B-865 playtest: Lens Flare looks like After Effects' (D-985)
+
+What changed: the three Lens Flare lenses (50-300mm Zoom, 35mm Prime, 105mm Prime) were measured again from After Effects' own flares in three tutorials. They are now soft blooms with faint ghosts and rings, and no rays.
+
+Look first at `verification/B-865 pictures/lens_flare_tutorial_before_after.png`: each row is one lens, After Effects on the left, ours before in the middle, ours now on the right. The right column should look like the left one; the middle one should not.
+
+## Steps
+
+1. New composition, 1920 by 1080. Add a black solid. Add Effect > Generate > Lens Flare to it.
+2. Set Flare Center to 40, 40 per cent and Lens Type to 105mm Prime. You should see a wide, soft white-blue glow with no rays, a few small bright dots on the line through the middle of the picture, and a faint large round shape down to the right.
+3. Set Lens Type to 50-300mm Zoom. The centre turns white-hot inside a soft red glow with a thin red ring round it, and a row of faint coloured circles (blue, orange, yellow-green) runs through the middle, ending in a faint large ring.
+4. Set Lens Type to 35mm Prime. A pink-red glow with a faint red ring, a yellow-green circle and a faint grey ring.
+5. Drag Flare Center about: the ghosts slide along the line through the middle, as before. Set Flare Brightness to 200: everything brighter. Set Blend With Original to 50: half as strong.
+
+## What you should not see
+
+- Long straight rays or a star shape on any lens.
+- A strong blue or orange halo round the centre.
+- Bright, solid coloured discs much stronger than the glow.
+
+Close, not pixel for pixel: over a picture rather than black, After Effects mixes the colours a little differently. The computer's checks are in `verification/D-426_lens_flare_table.md` (146 of 146) and `verification/D-545_lens_dirt_table.md` (463 of 463).
